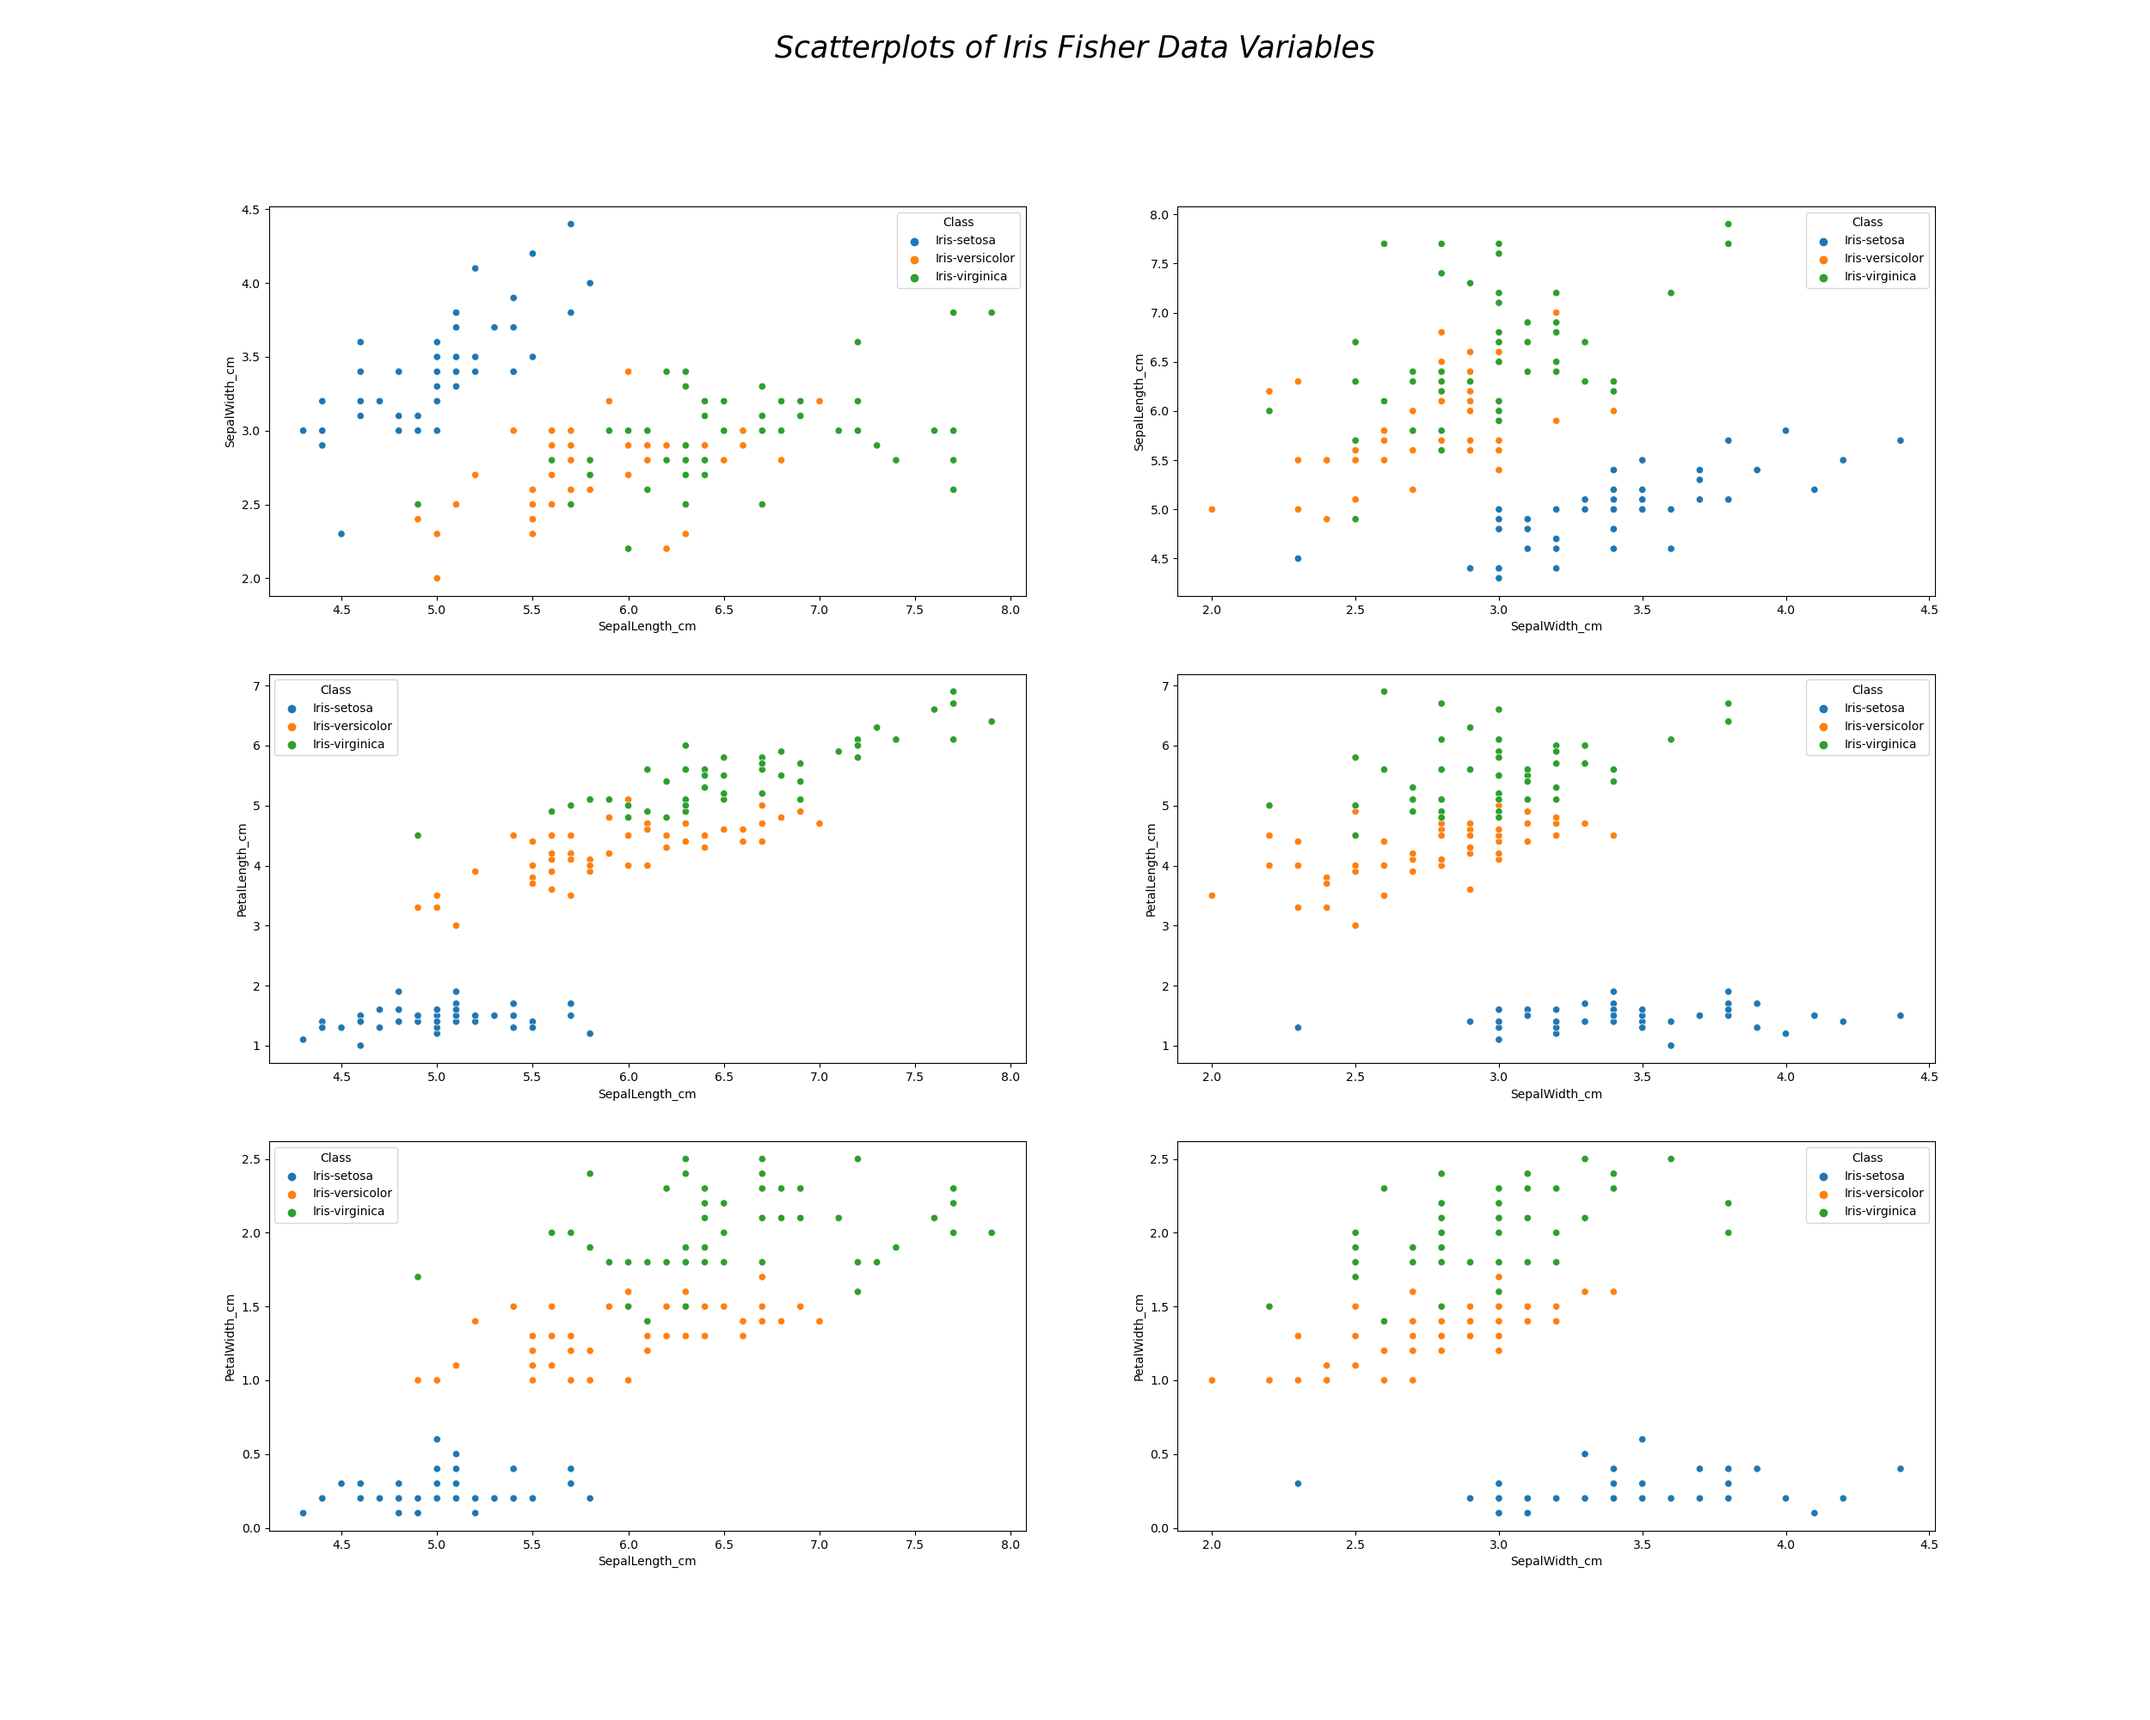
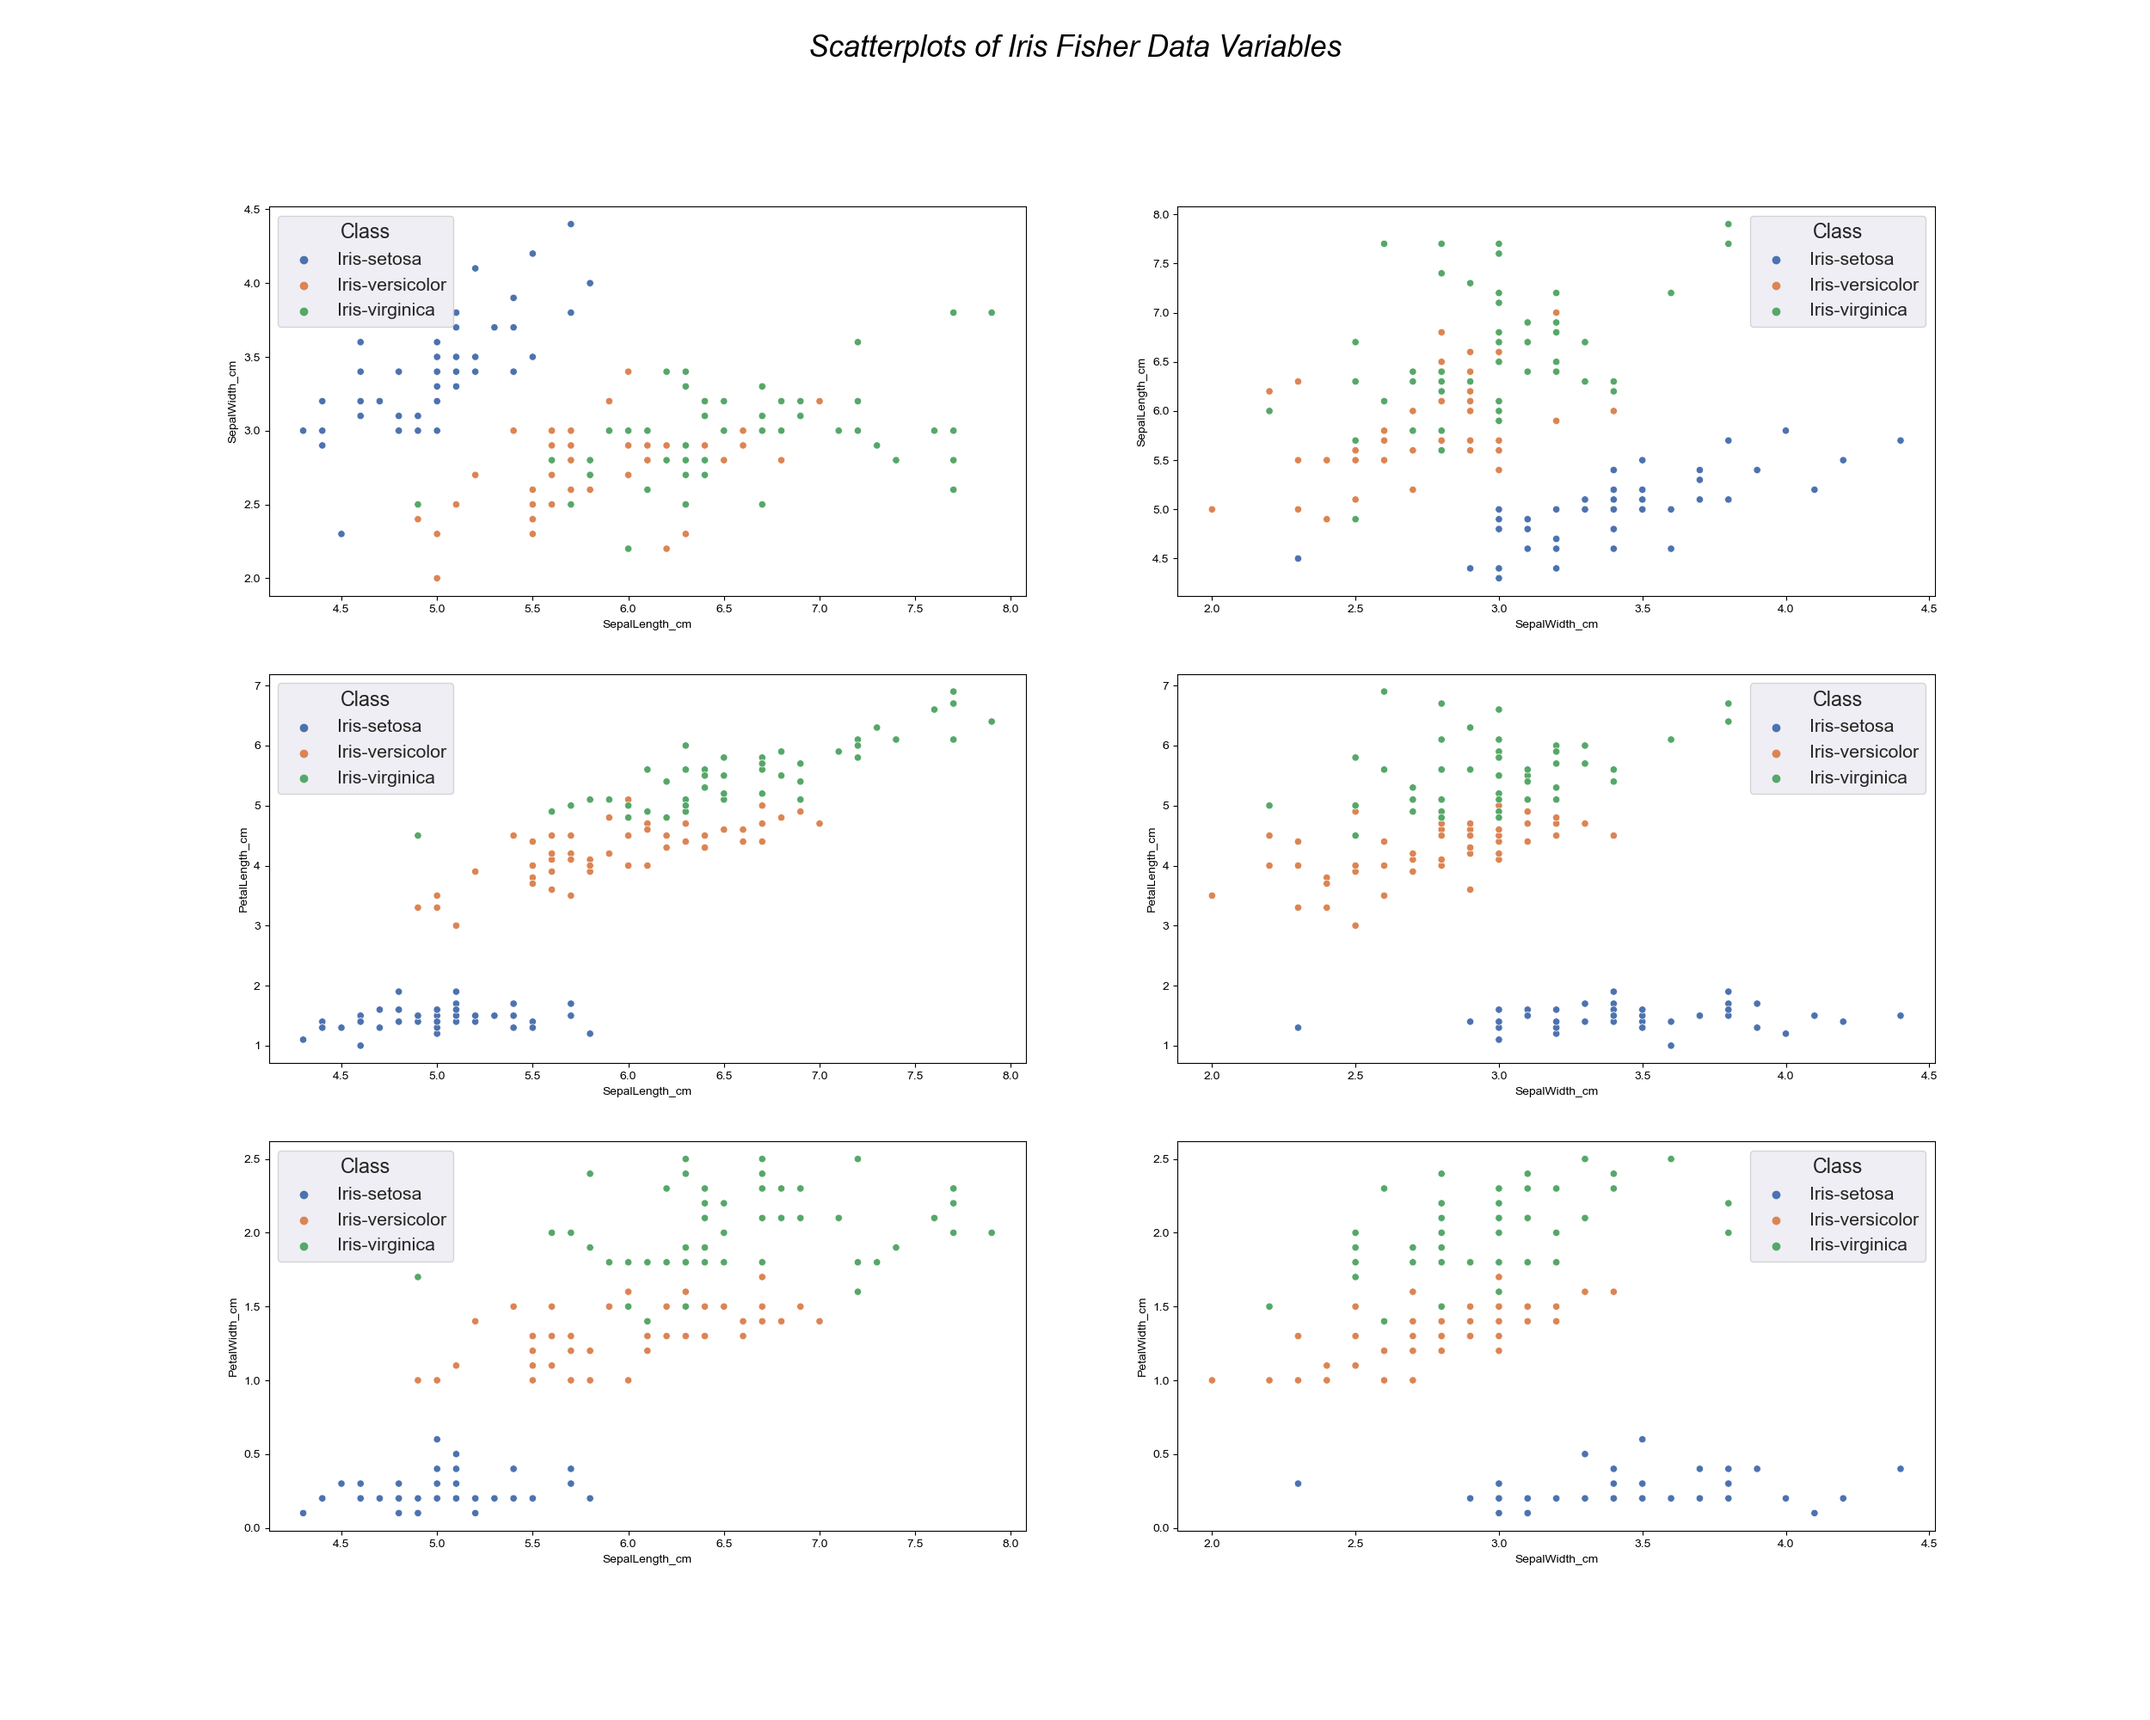
updated code to increase legen size

diff --git a/overviewScat.py b/overviewScat.py
@@ -12,15 +12,17 @@ data.columns = ['SepalLength_cm','SepalWidth_cm','PetalLength_cm','PetalWidth_cm
 fig, ax1 = plt.subplots(3,2, figsize=(25,20)) # adapted from kaggle.com (reference 22)
 fig.suptitle('Scatterplots of Iris Fisher Data Variables', style = 'italic', size = 25) # Overall title and editing font for appearance
 
+sns.set(font_scale=1.2) # increasing size of legend (23)
 
 # 1st plot
 sns.scatterplot(data=data, x='SepalLength_cm', y='SepalWidth_cm', hue='Class', ax=ax1[0, 0]) 
 
 # 2nd plot
-sns.scatterplot(data=data, x='SepalWidth_cm', y="SepalLength_cm", hue='Class', ax=ax1[0, 1]) 
+sns.scatterplot(data=data, x='SepalWidth_cm', y='SepalLength_cm', hue='Class', ax=ax1[0, 1]) 
 
 # 3rd plot
-sns.scatterplot(data=data, x='SepalLength_cm', y="PetalLength_cm", hue='Class', ax=ax1[1, 0]) 
+sns.scatterplot(data=data, x='SepalLength_cm', y='PetalLength_cm', hue='Class', ax=ax1[1, 0]) 
+
 
 # 4th plot
 sns.scatterplot(data=data, x='SepalWidth_cm', y='PetalLength_cm', hue='Class', ax=ax1[1, 1]) 
@@ -30,6 +32,7 @@ sns.scatterplot(data=data, x='SepalLength_cm', y='PetalWidth_cm', hue='Class', a
 
 # 6th plot
 sns.scatterplot(data=data, x='SepalWidth_cm', y="PetalWidth_cm", hue='Class', ax=ax1[2, 1]) 
+
 
 fig.savefig('overviewScat.png')
 

diff --git a/README.md b/README.md
@@ -375,8 +375,34 @@ To facilitate rapid analyses of all scatterplot data, it is wise to construct a 
 
 ```Python
 
-```
+# create a figure 'fig' with axis 'ax1' with 3x2 configuration (reference 22)
+fig, ax1 = plt.subplots(3,2, figsize=(25,20)) # adapted from kaggle.com (reference 22)
+fig.suptitle('Scatterplots of Iris Fisher Data Variables', style = 'italic', size = 25) # Overall title and editing font for appearance
 
+
+# 1st plot
+sns.scatterplot(data=data, x='SepalLength_cm', y='SepalWidth_cm', hue='Class', ax=ax1[0, 0]) 
+
+# 2nd plot
+sns.scatterplot(data=data, x='SepalWidth_cm', y="SepalLength_cm", hue='Class', ax=ax1[0, 1]) 
+
+# 3rd plot
+sns.scatterplot(data=data, x='SepalLength_cm', y="PetalLength_cm", hue='Class', ax=ax1[1, 0]) 
+
+# 4th plot
+sns.scatterplot(data=data, x='SepalWidth_cm', y='PetalLength_cm', hue='Class', ax=ax1[1, 1]) 
+
+# 5th plot
+sns.scatterplot(data=data, x='SepalLength_cm', y='PetalWidth_cm', hue='Class', ax=ax1[2, 0]) 
+
+# 6th plot
+sns.scatterplot(data=data, x='SepalWidth_cm', y="PetalWidth_cm", hue='Class', ax=ax1[2, 1]) 
+
+fig.savefig('overviewScat.png')
+
+```
+This code was heavily adapted from reference 22. Although it is not quite as easy to visualise individual datapoints, it is beneficial to have a resource containing all the scatterplots together for general rapid analysis.
+ ![overviewScat](https://i.imgur.com/Kro3rJq.png)
 
 ## Conclusion
 
@@ -424,6 +450,10 @@ To facilitate rapid analyses of all scatterplot data, it is wise to construct a 
     21. seaborn.pydata.org. seaborn.scatterplot — seaborn 0.11.1 documentation. [online] Available at: https://seaborn.pydata.org/generated/seaborn.scatterplot.html [Accessed 26 Mar. 2021].
     
     22. kaggle.com. How to do subplots - Iris Dataset. [online] Available at: https://www.kaggle.com/dcstang/how-to-do-subplots-iris-dataset [Accessed 26 Mar. 2021].
+    
+    23. Moonbooks.org. (2020). How to increase the size of axes labels on a seaborn heatmap in python ? [online] Available at: https://moonbooks.org/Articles/How-to-increase-the-size-of-axes-labels-on-a-seaborn-heatmap-in-python-/ [Accessed 26 Mar. 2021].
+
+
 
 
 
